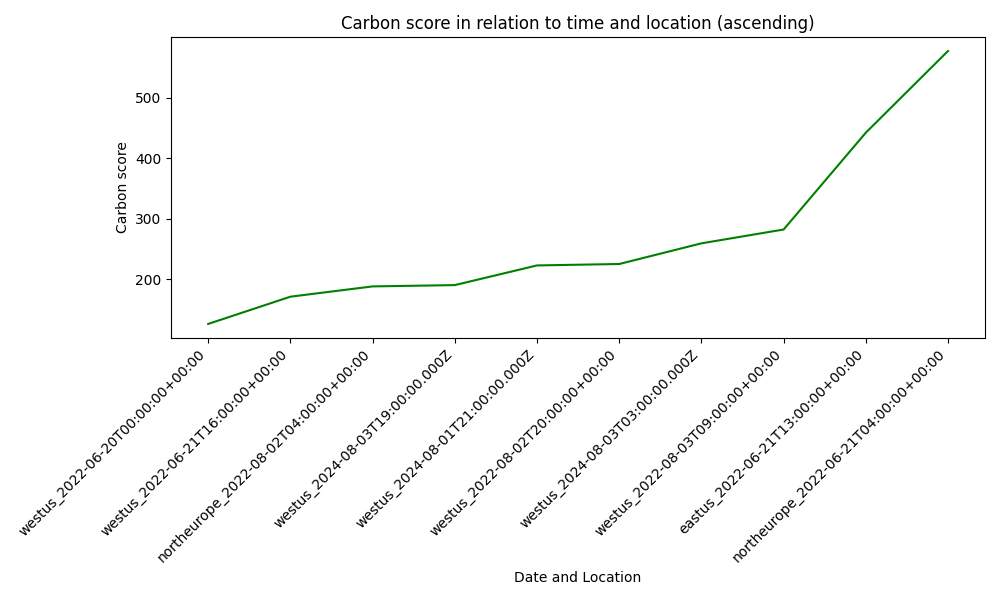
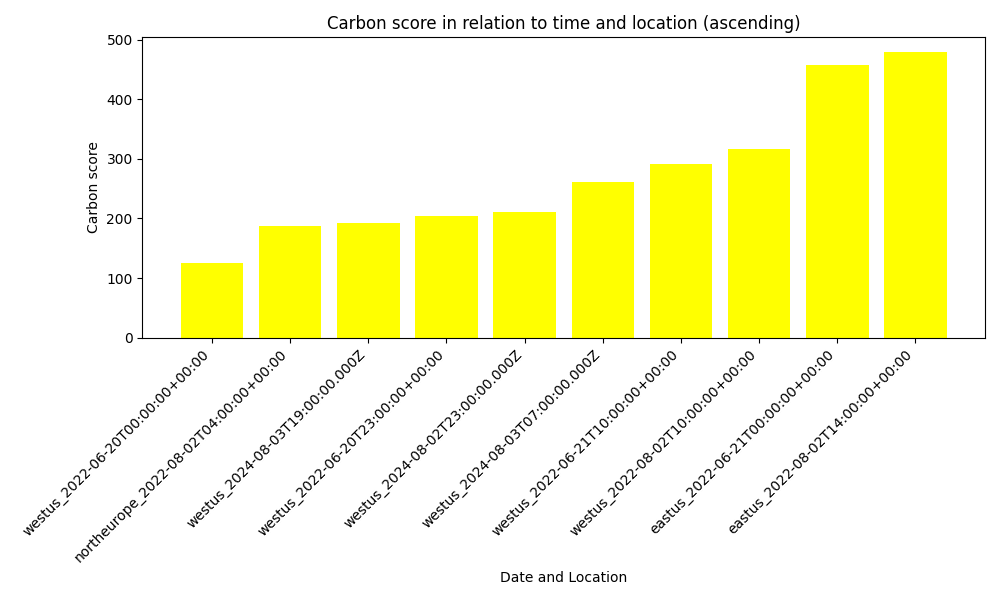
fixed samppling bug

diff --git a/Code/if-optimisation-models/src/lib/carbon-aware-advisor/index.ts b/Code/if-optimisation-models/src/lib/carbon-aware-advisor/index.ts
@@ -93,6 +93,7 @@ export const CarbonAwareAdvisor =async  (params: ConfigParams): Promise<PluginIn
   const calculate = async (inputs: PluginParams[]): Promise<PluginParams[]> =>{
     //depending on if we have sampling or not the result map that will be returned will be different. 
     //if hassampling =true then we need plotted points as well
+      
     let results: PluginParams[] = []
     if (hasSampling) {
       results = inputs.map(input => ({
@@ -416,6 +417,7 @@ export const CarbonAwareAdvisor =async  (params: ConfigParams): Promise<PluginIn
     if (params && params['sampling'] !== undefined) {
       const sample = params['sampling'];
       // Further processing with locs
+      console.log('`sampling` provided:', sample);
       validateSampling(sample);
     } else {
         console.log('`sampling` is undefined, and thus will not be used.');
@@ -429,9 +431,11 @@ export const CarbonAwareAdvisor =async  (params: ConfigParams): Promise<PluginIn
   * @throws InputValidationError if the sampling parameter is invalid and stops the execution of the model.
   * @returns void
   */
-  const validateSampling = (sampling: any): void => {
-    // Check if sampling is a positive number  
-    const hasSampling = sampling > 0;
+  const validateSampling = (sample: any): void => {
+    // Check if sampling is a positive number  and populate the global params hasSampling and sampling
+    hasSampling = sample > 0;
+    sampling =sample;
+    
   
     if (!hasSampling || typeof sampling !== 'number' || sampling <= 0) {
       console.warn('`sampling` provided but not a positive number. Ignoring `sampling`.');
